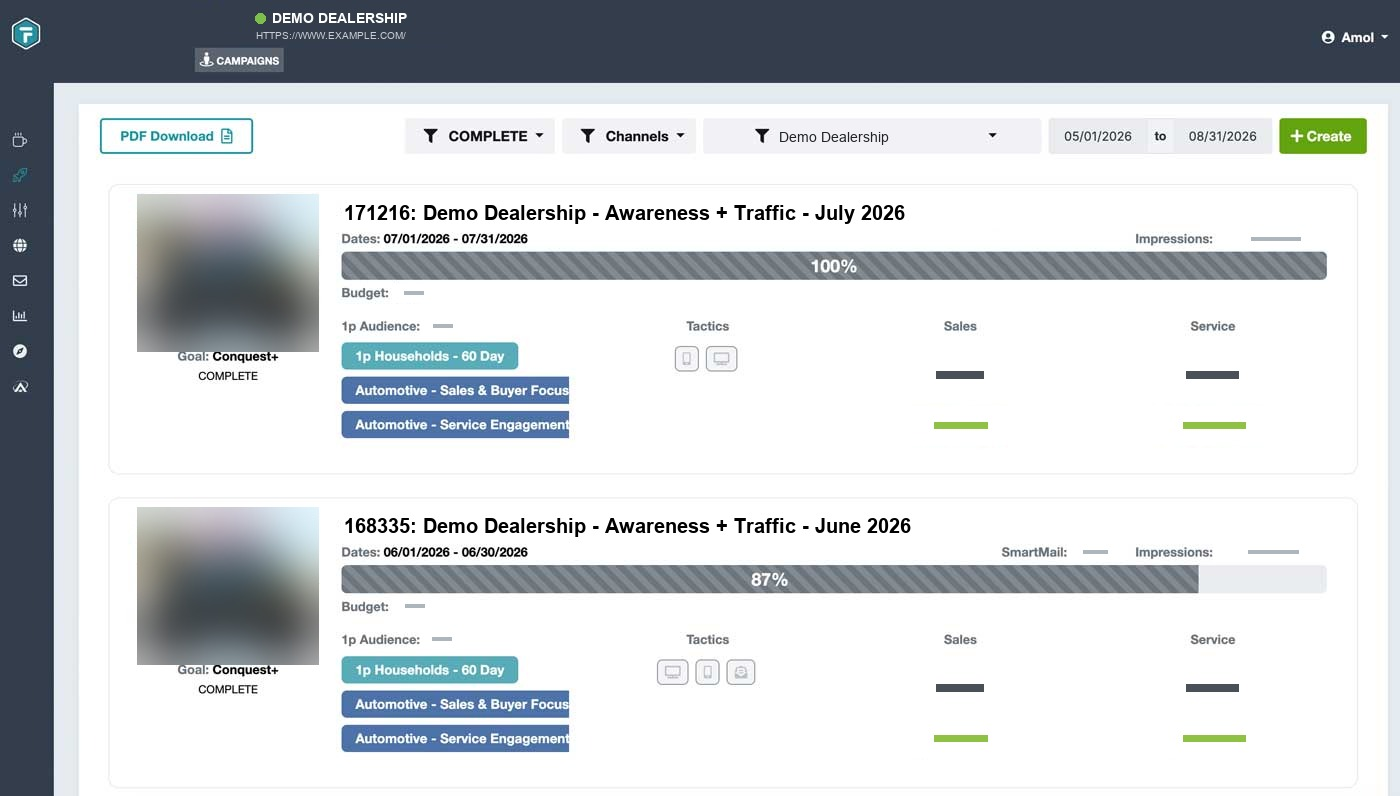
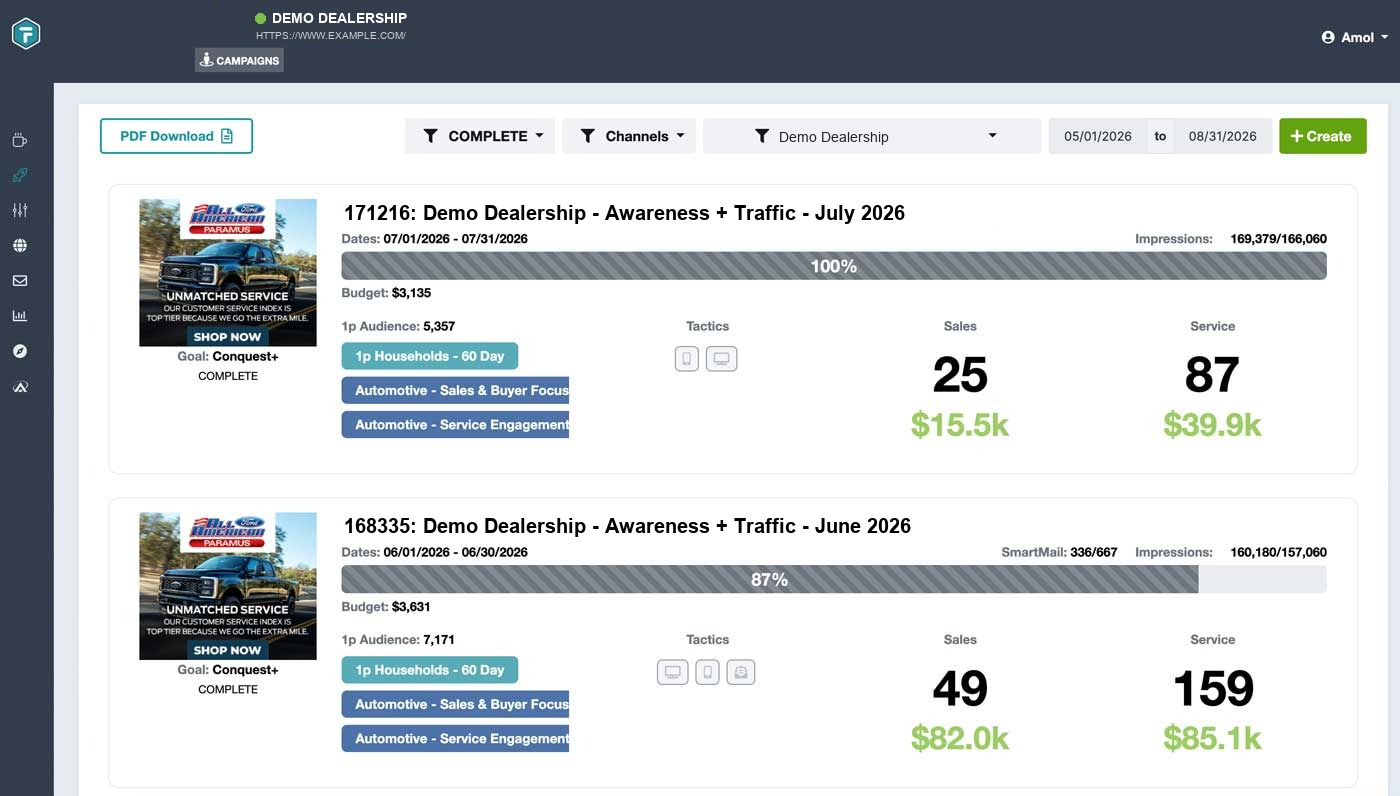
Restore the platform screenshot's real figures under client clearance
Amol confirmed the client cleared their data for publication, so the masking
comes off. The account name, URL and campaign titles stay replaced — the page
should read as a product shot, not a named case study — and the ad creative and
every spend, delivery and attribution figure are now as captured.

The creative carries the client's own branding, so the file identifies them at
full resolution even though the header does not. It only reads as anonymous at
the 448px the artifact displays at. Flagged, and taken deliberately.

Redaction scope is now a switch on the script rather than the whole of it:
--scope identity for a cleared account, --scope full for one without. The
config note says plainly that a refresh does not inherit this clearance, since
the next person to swap this screenshot will not have been in the conversation
where it was granted.

Corrected the alt text, which still told screen reader users the figures were
redacted, and the provenance comment, which still described a redaction that no
longer applies. A stale comment about what was removed from an image is worse
than none.

The earlier fully-masked version stays in history at 0881472. That is the safe
direction for a leftover to point.

diff --git a/src/lib/signal.config.ts b/src/lib/signal.config.ts
@@ -14,13 +14,24 @@
  * TO CONFIRM BEFORE LAUNCH: the exact ordering of the patents relative to the
  * headcount milestone, and whether "100-person" is current or a peak figure.
  *
- * ARTIFACT PROVENANCE — these are public files on a public site, so nothing
- * that identifies a client can go in one. The platform screenshot was
- * anonymised before it was committed: client name, URL, campaign titles and ad
- * creative replaced, and every spend, delivery and attribution figure masked.
- * The figures are masked rather than replaced with plausible ones on purpose —
- * invented numbers on a public page read as a performance claim. Re-anonymise
- * the same way if that screenshot is ever refreshed. The patent drawings are
+ * ARTIFACT PROVENANCE — these are public files on a public site, served at
+ * full resolution and indexed.
+ *
+ * The platform screenshot shows a real account. Its spend, delivery and
+ * attribution figures are that client's actual numbers, published with their
+ * permission — Amol confirmed clearance before this went up. Only the account
+ * name, URL and the two campaign titles are replaced, so the page reads as a
+ * product shot rather than a named case study. The ad creative is as captured
+ * and carries the client's own branding, which means the file identifies them
+ * at full resolution even though the header does not; that was a deliberate
+ * call, not an oversight.
+ *
+ * A REFRESH DOES NOT INHERIT THAT CLEARANCE. A new capture, or the same view
+ * for a different client, needs its own permission before it can ship. With no
+ * clearance, run the script at --scope full, which also blurs the creative and
+ * masks every figure:
+ *
+ *   cd public/trajectory && python3 ../../scripts/anonymise-platform-screenshot.py --scope full The patent drawings are
  * The patent artifacts are the real figures redrawn as schematics in the
  * signal blue, not reproductions of the scans: at the size these render, a
  * scan's type smears and the boxes grey out, and black-on-white line art reads
@@ -108,9 +119,10 @@ export const milestones: Milestone[] = [
     note: "Co-founded. Identity, attribution, and media in one platform.",
     artifacts: [
       {
-        /* Anonymised before publication — see the artifact note above. */
+        /* Real client figures, published with permission; account name
+           replaced. See the artifact note above before refreshing this. */
         src: "/trajectory/ftplatform.jpg",
-        alt: "The fullthrottle.ai platform showing two campaigns with delivery pacing, audience tactics, and sales and service attribution. Client details and performance figures are redacted.",
+        alt: "The fullthrottle.ai platform showing two campaigns with delivery pacing against budget, first-party audience counts, channel tactics, and attributed sales and service outcomes.",
         caption: "The platform",
         width: 1400,
         height: 796,

diff --git a/scripts/anonymise-platform-screenshot.py b/scripts/anonymise-platform-screenshot.py
@@ -1,27 +1,45 @@
 """
 Anonymise the fullthrottle.ai platform screenshot used by the Trajectory.
 
-public/trajectory/ftplatform.jpg is served publicly and indexed, so it cannot
-carry anything that identifies a client. This removes the client's name, URL,
-campaign titles and ad creative, and masks every spend, delivery and
-attribution figure.
+public/trajectory/ftplatform.jpg is served publicly, at full resolution, and
+indexed. What has to come out of it depends on what the client has cleared, so
+the scope is a switch:
 
-The figures are masked rather than replaced with plausible ones on purpose:
-invented numbers on a public page read as a performance claim.
+    --scope identity   client name, URL and campaign titles only (default).
+                       Ad creative and all figures are left as captured. Use
+                       when the client has cleared their data for publication
+                       but the page should not read as a named case study.
+
+    --scope full       the above, plus the ad creative blurred and every spend,
+                       delivery and attribution figure masked. Use when there
+                       is no clearance.
+
+Note what --scope identity does NOT do: the ad creative carries the client's
+own branding, so leaving it in identifies them at full resolution regardless of
+the replaced header. It only reads as anonymous at the size the page displays
+it. Choose it knowing that.
+
+Under --scope full the figures are masked rather than replaced with plausible
+ones on purpose: invented numbers on a public page read as a performance claim.
 
 Run from public/trajectory/ against a fresh capture, then read the output back
-at full resolution and confirm nothing survived before committing. The pixel
+at full resolution and confirm what you expected to go is gone. The pixel
 regions below are specific to the 1400x796 campaigns view — a new capture at a
 different size or a changed layout needs them re-measured, not reused.
 
-    cd public/trajectory && python3 ../../scripts/anonymise-platform-screenshot.py
+    cd public/trajectory && python3 ../../scripts/anonymise-platform-screenshot.py --scope identity
 
-Requires Pillow. Overwrites in place, so keep the original outside the repo and
-delete it once you are done.
+Requires Pillow. Overwrites in place, so keep the original outside the repo
+until you are satisfied with the result.
 """
+import argparse
 from PIL import Image, ImageDraw, ImageFont, ImageFilter
 
-SRC, OUT = "ftplatform.jpg", "ftplatform.jpg"
+_ap = argparse.ArgumentParser(description=__doc__)
+_ap.add_argument("--scope", choices=("identity", "full"), default="identity")
+_ap.add_argument("--src", default="ftplatform.jpg")
+SCOPE = _ap.parse_args().scope
+SRC = OUT = _ap.parse_args().src
 
 HEADER = (52, 61, 76)
 WHITE = (255, 255, 255)
@@ -82,23 +100,24 @@ swap((342, 199, 1065, 227), WHITE,
 swap((342, 512, 1072, 540), WHITE,
      "168335: Demo Dealership - Awareness + Traffic - June 2026", f(B, 20), INK)
 
-# The ad creative carries the dealer's own branding and vehicle photography.
-blur((137, 194, 319, 352))
-blur((137, 507, 319, 665))
+if SCOPE == "full":
+    # The ad creative carries the client's own branding and vehicle photography.
+    blur((137, 194, 319, 352))
+    blur((137, 507, 319, 665))
 
-# --- performance figures --------------------------------------------------
-for box in [(1218, 230, 1334, 248), (1213, 543, 1334, 561), (1067, 543, 1124, 561),
-            (392, 284, 436, 302), (392, 597, 438, 615),
-            (420, 317, 466, 335), (420, 630, 464, 648)]:
-    mask(box, WHITE, (173, 181, 189), weight=3)
+    # --- performance figures ----------------------------------------------
+    for box in [(1218, 230, 1334, 248), (1213, 543, 1334, 561), (1067, 543, 1124, 561),
+                (392, 284, 436, 302), (392, 597, 438, 615),
+                (420, 317, 466, 335), (420, 630, 464, 648)]:
+        mask(box, WHITE, (173, 181, 189), weight=3)
 
-for box in [(905, 348, 1015, 402), (1150, 348, 1275, 402),
-            (905, 661, 1015, 715), (1150, 661, 1275, 715)]:
-    mask(box, WHITE, (73, 80, 87), weight=7)
+    for box in [(905, 348, 1015, 402), (1150, 348, 1275, 402),
+                (905, 661, 1015, 715), (1150, 661, 1275, 715)]:
+        mask(box, WHITE, (73, 80, 87), weight=7)
 
-for box in [(898, 406, 1024, 444), (1138, 406, 1290, 444),
-            (898, 719, 1024, 757), (1138, 719, 1290, 757)]:
-    mask(box, WHITE, GREEN, weight=6)
+    for box in [(898, 406, 1024, 444), (1138, 406, 1290, 444),
+                (898, 719, 1024, 757), (1138, 719, 1290, 757)]:
+        mask(box, WHITE, GREEN, weight=6)
 
 im.save(OUT, quality=92, optimize=True)
-print("wrote", OUT, im.size)
+print(f"wrote {OUT} {im.size} scope={SCOPE}")
